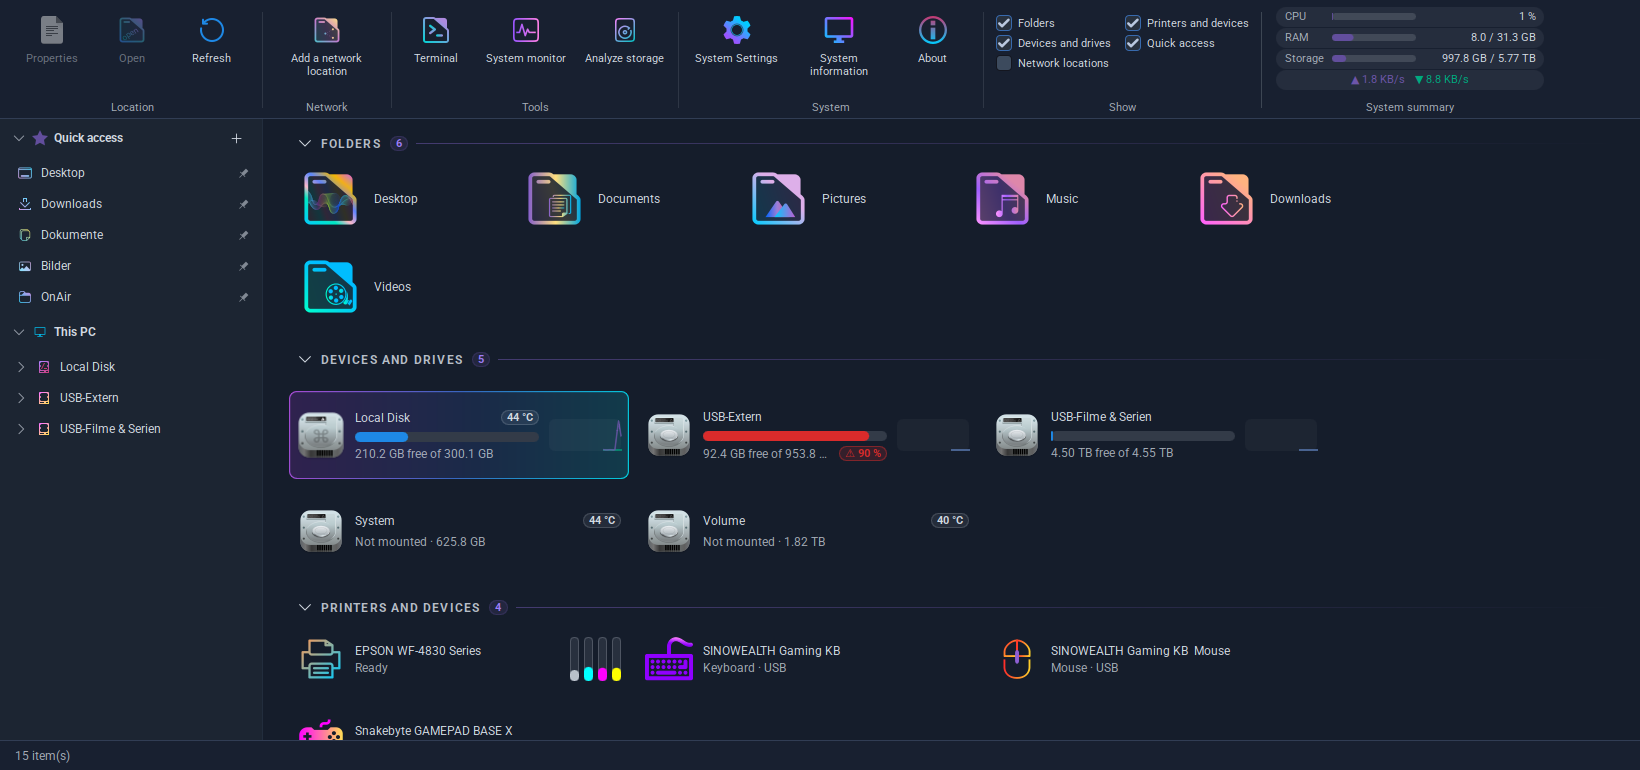
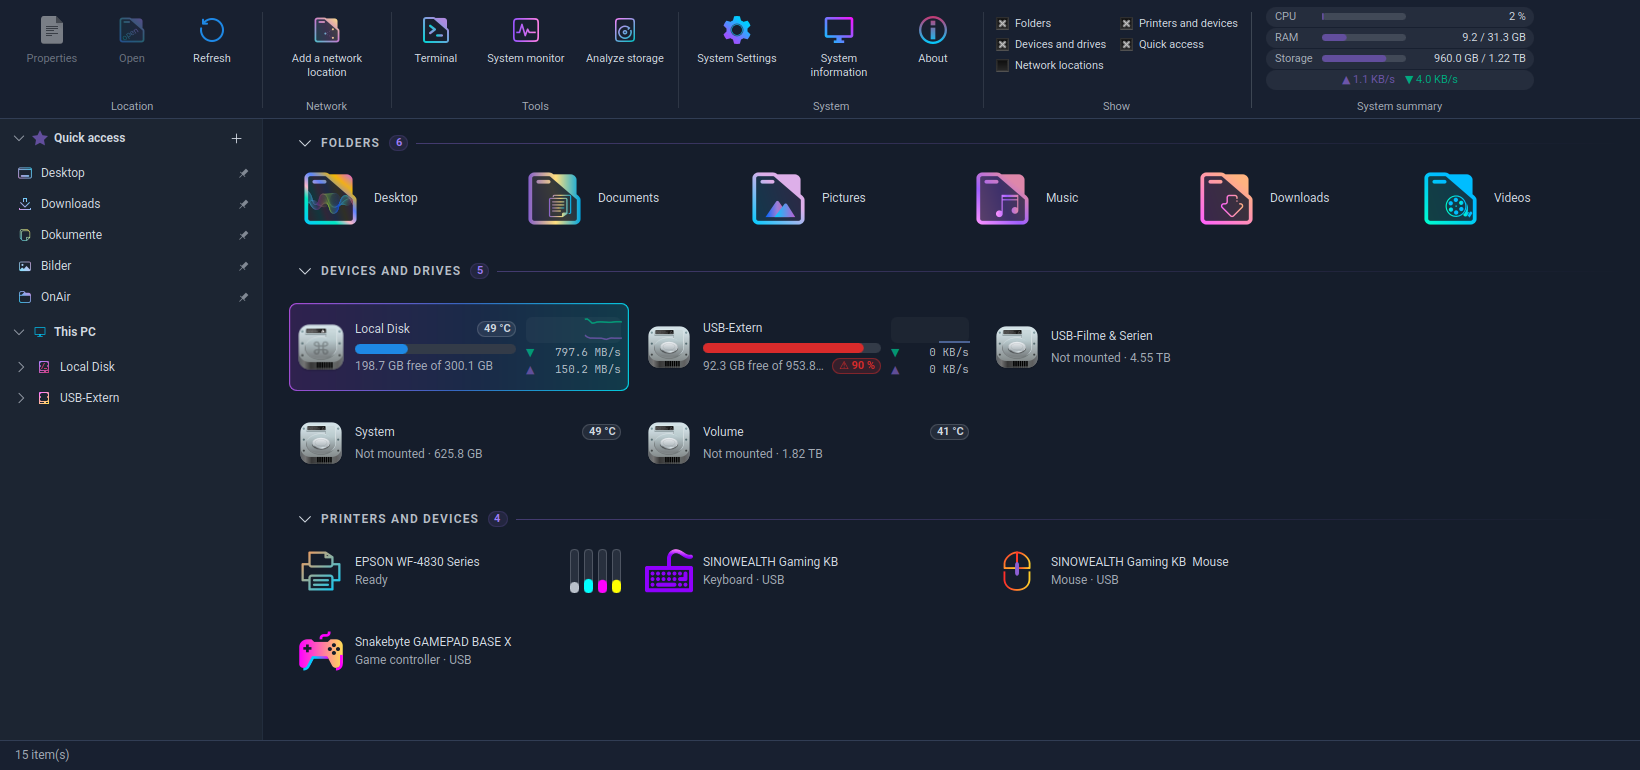
Release 2.0.0-beta.3: bump version, CHANGELOG, new preview with read/write speeds

diff --git a/drivedeck.py b/drivedeck.py
@@ -6859,7 +6859,7 @@ QQC2.ApplicationWindow {
 """
 
 
-APP_VERSION = '2.0.0-beta.2'
+APP_VERSION = '2.0.0-beta.3'
 APP_AUTEUR = """Original Copyright (C) 2026 naykkalak
 Modified and maintained by Christian (2026), with help from his son Leon"""
 APP_LICENCE = 'GPL-3.0-or-later'

diff --git a/CHANGELOG.md b/CHANGELOG.md
@@ -10,15 +10,19 @@ hidden and everything else works).
 
 ---
 
-## Unreleased
+## 2.0.0-beta.3 – 2026-10-29 (read/write speed on the drive cards)
 
 ### Changed
 
 - **Read/write speed as numbers on the drive cards.** Below the I/O sparkline two compact labels show the current rates:
-  green ▼ for reading, yellow ▲ for writing, in the fixed-width font so the digits do not jump. Below 1 MB/s the value is
+  green ▼ for reading, ▲ in the theme's neutral colour (as the write line) for writing, in the fixed-width font so the digits do not jump. Below 1 MB/s the value is
   shown in whole KB/s (`0 KB/s` when idle), from 1 MB/s on in MB/s, from 1 GB/s on in GB/s with one decimal. A drive without
   values shows `-`. The values still come from `ioStats`; the texts are separate string properties, so a label is only
   touched when its text really changes.
+
+### Notes
+
+- `APP_VERSION` is `'2.0.0-beta.3'`; the *About* dialog shows it. `preview.png` was rendered again.
 
 ---
 
@@ -309,7 +313,7 @@ and the duplicate user checks in `addNetwork`.
 
 ## Suggested for the first release
 
-- `APP_VERSION` is `'2.0.0-beta.2'` (DriveDeck is a new major version after Fenestra This PC 1.x). For the final release set
+- `APP_VERSION` is `'2.0.0-beta.3'` (DriveDeck is a new major version after Fenestra This PC 1.x). For the final release set
   `'2.0.0'` and tag `v2.0.0`.
 - Keep the licence file `COPYING` (GPL-3.0) from upstream in the repository.
 - Add this file as `CHANGELOG.md` and mention in the README that the project is a fork of

diff --git a/README.md b/README.md
@@ -12,7 +12,7 @@ locations, printers and devices in one clean window, and it follows your Plasma 
 
 <p align="center"><img src="preview.png" alt="DriveDeck main window"></p>
 
-**Version 2.0.0-beta.2** – feedback and bug reports are very welcome.
+**Version 2.0.0-beta.3** – feedback and bug reports are very welcome.
 
 ---
 
